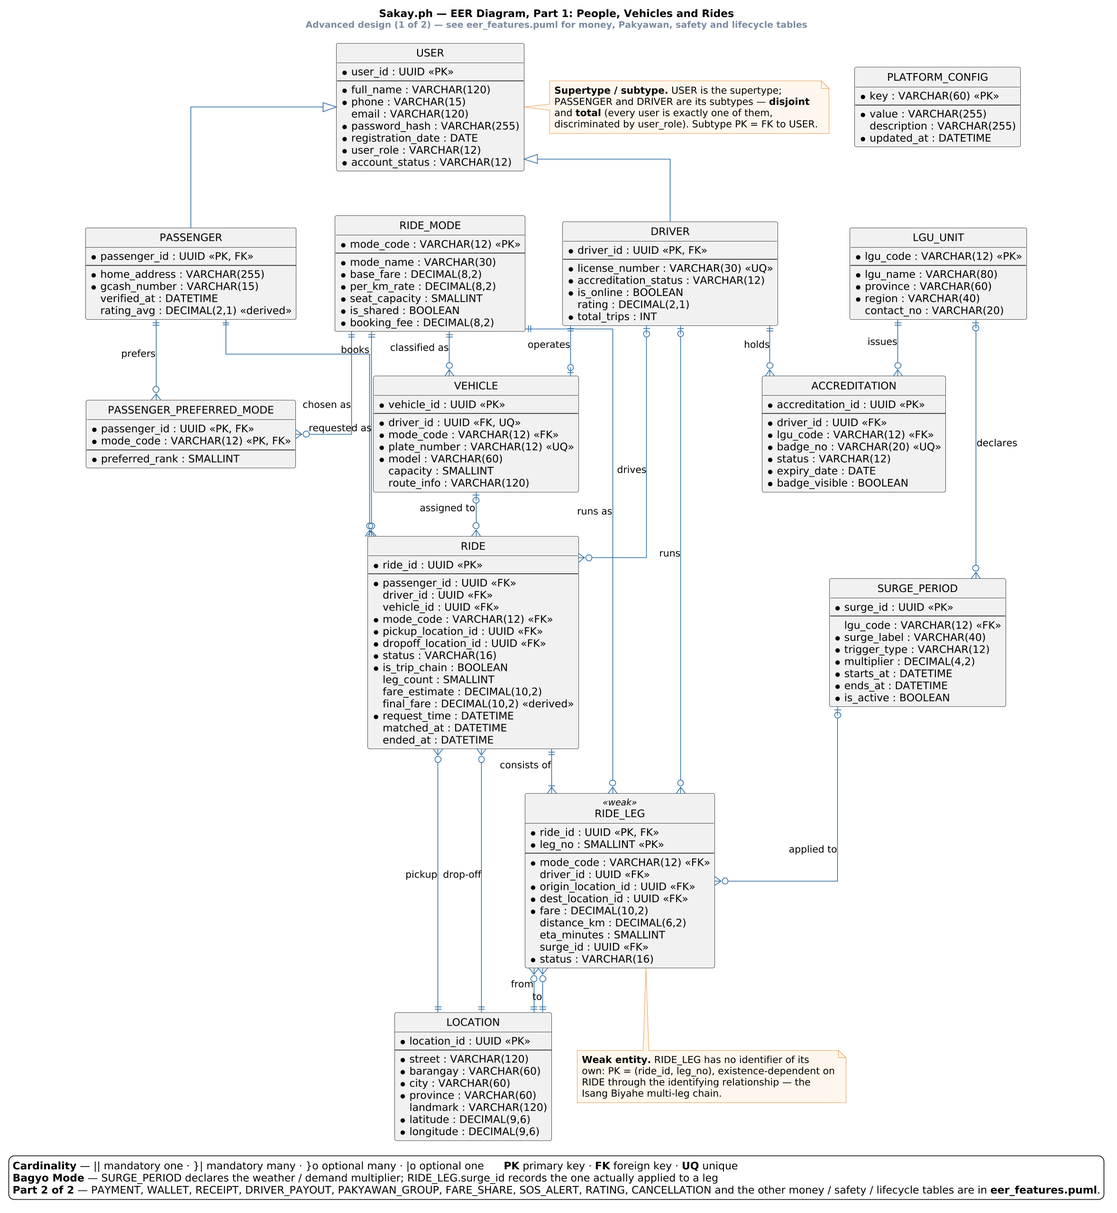
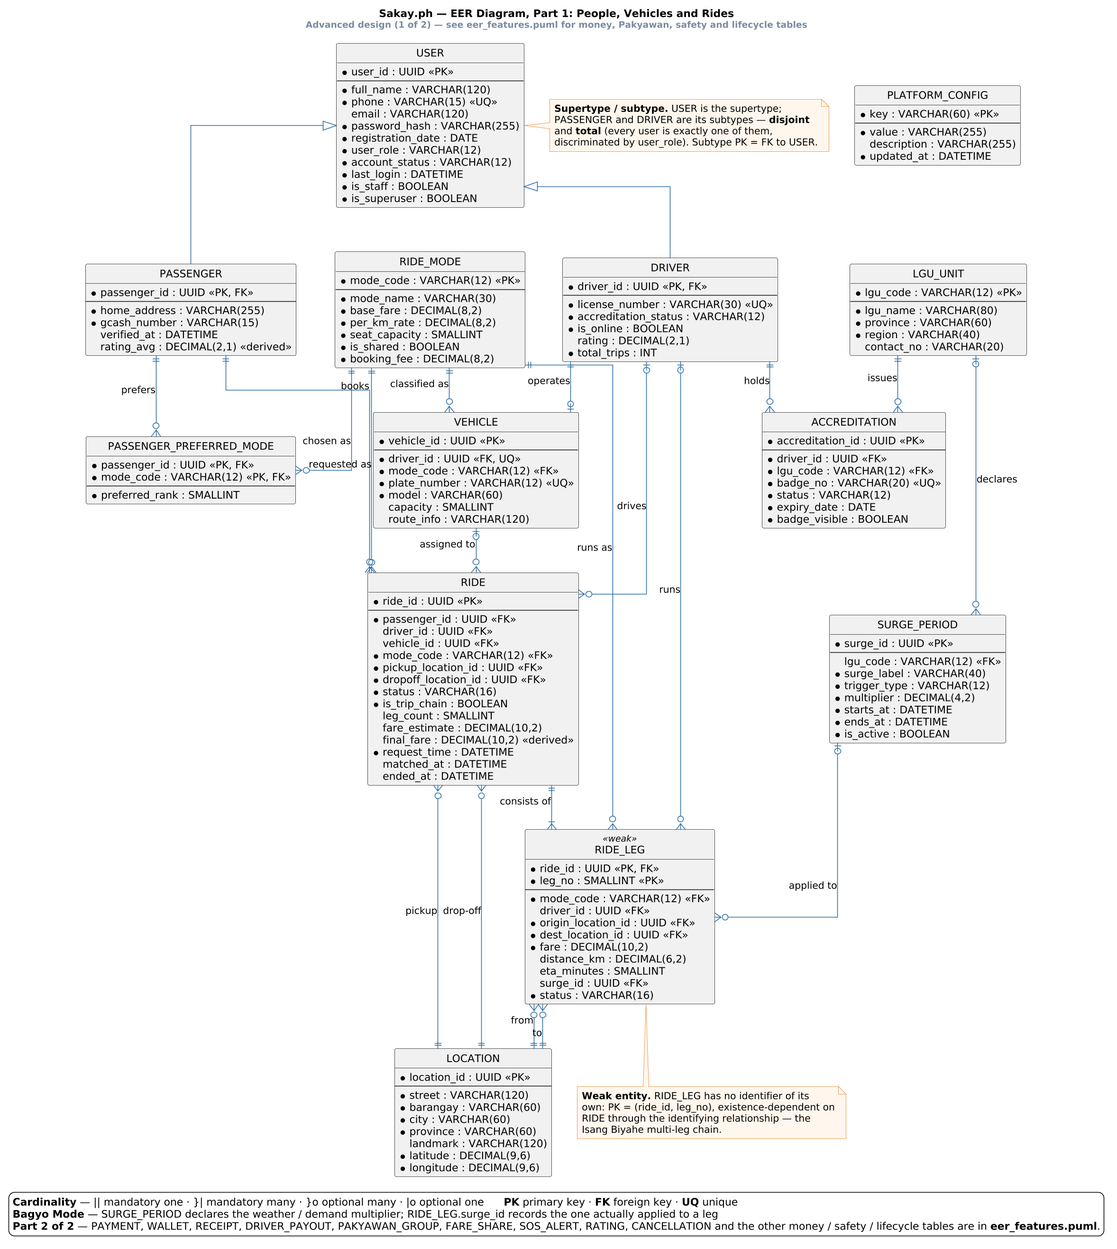
docs(db): record D-66..D-69 — USER auth columns, phone UNIQUE

diff --git a/steps/phase-2-database/03-models-accounts.md b/steps/phase-2-database/03-models-accounts.md
@@ -28,13 +28,12 @@ procedure from `CONTRIBUTING.md`:
    `last_login DATETIME NULL`, `is_staff BOOLEAN NOT NULL DEFAULT 0`,
    `is_superuser BOOLEAN NOT NULL DEFAULT 0`
 2. Add a `UNIQUE` mark to `phone` in the same table
-3. Append **D-65/D-66/D-67** entries to `database/consistency_report.md` — one each
-   for the three added columns, since each is a separate change to the listing.
-   **Check the next free number before you write it.** D-62 is A-13 (Day 5), D-63 is
-   the `char(32)` UUID decision (Day 5), and D-64 is the booking fee's value
-   (14 Nov — see §3.12), so D-65 is the next free slot. If your report has grown
-   further than that, continue from whatever is actually next — the rule is one
-   number per change, never reuse one.
+3. Append entries to `database/consistency_report.md` — one per column, since each
+   is a separate change to the listing: **D-66** `last_login`, **D-67** `is_staff`,
+   **D-68** `is_superuser`, **D-69** `phone` UNIQUE. `D-65` is taken: on 19 Nov it
+   was recorded for the PK column convention (field attribute `id`, column
+   `<entity>_id` via `db_column`, §3.13). **Check the next free number before you
+   write it — read the last entry of the report — one number per change, never reuse one.**
 4. Update USER in **both** EER sources — `database/diagrams/eer_core.puml` **and**
    `database/diagrams/eer_development.puml`: add the three columns and mark `phone`
    with `<<UQ>>` — then re-render both PNGs (recipe in `CONTRIBUTING.md`). USER appears
@@ -230,7 +229,7 @@ class User(AbstractBaseUser, PermissionsMixin):
     carries a UNIQUE constraint — see the design-change note for this step.
     """
 
-    id = models.UUIDField(primary_key=True, default=uuid.uuid4, editable=False)
+    id = models.UUIDField(primary_key=True, default=uuid.uuid4, editable=False, db_column="user_id")
 
     full_name = models.CharField(max_length=120)
     phone = models.CharField(
@@ -433,7 +432,7 @@ class LGUUnit(models.Model):
     lgu_name = models.CharField(max_length=80)
     province = models.CharField(max_length=60)
     region = models.CharField(max_length=40)
-    contact_no = models.CharField(max_length=20, blank=True)
+    contact_no = models.CharField(max_length=20, null=True, blank=True)
 
     class Meta:
         db_table = "LGU_UNIT"
@@ -452,7 +451,7 @@ class Vehicle(models.Model):
     and a driver has at most one vehicle (1 : 0..1 in the schema).
     """
 
-    id = models.UUIDField(primary_key=True, default=uuid.uuid4, editable=False)
+    id = models.UUIDField(primary_key=True, default=uuid.uuid4, editable=False, db_column="vehicle_id")
     driver = models.OneToOneField(
         Driver, on_delete=models.CASCADE, related_name="vehicle", db_column="driver_id"
     )
@@ -466,7 +465,7 @@ class Vehicle(models.Model):
     plate_number = models.CharField(max_length=12, unique=True)
     model = models.CharField(max_length=60)
     capacity = models.SmallIntegerField(null=True, blank=True)
-    route_info = models.CharField(max_length=120, blank=True)
+    route_info = models.CharField(max_length=120, null=True, blank=True)
 
     class Meta:
         db_table = "VEHICLE"
@@ -484,7 +483,7 @@ class Accreditation(models.Model):
     and a driver working across two cities holds two.
     """
 
-    id = models.UUIDField(primary_key=True, default=uuid.uuid4, editable=False)
+    id = models.UUIDField(primary_key=True, default=uuid.uuid4, editable=False, db_column="accreditation_id")
     driver = models.ForeignKey(
         Driver,
         on_delete=models.CASCADE,
@@ -574,10 +573,21 @@ If `admin`, `auth` and `contenttypes` are all unapplied, you are fine.
 
 ### 6. Migrate and inspect (~30 min)
 
+The stack must be up first — a `docker compose down -v` (Step 09's grant procedure, or
+recovering from an early `migrate`) leaves the database unreachable until the containers
+are back and MySQL has finished initialising:
+
+```powershell
+docker compose up -d
+# Bare `-p` prompts for the password — `-p sakayph` with a space would make mysqladmin
+# read "sakayph" as a command to run after the ping.
+docker compose exec mysql mysqladmin ping -u sakayph -p   # → "mysqld is alive"
+```
+
 ```powershell
 Set-Location backend
 ..\.venv\Scripts\Activate.ps1
-python manage.py makemigrations rides accounts
+python manage.py makemigrations core rides accounts
 python manage.py migrate
 ```
 
@@ -598,11 +608,14 @@ ACCREDITATION
 DRIVER
 LGU_UNIT
 PASSENGER
+PLATFORM_CONFIG
 USER
 VEHICLE
 ```
 
-Plus Django's own `auth_*`, `django_*` tables.
+Plus Django's own `auth_*`, `django_*` tables, and — because Option A gives USER the auth
+M2M relations — `USER_groups` and `USER_user_permissions`. If those two are missing,
+`AUTH_USER_MODEL` is not pointing at `accounts.User`.
 
 Confirm the inheritance is what the schema describes — `PASSENGER.passenger_id` must
 be a primary key that is also a foreign key:
@@ -612,7 +625,7 @@ $pw = (Select-String -Path ..\.env -Pattern '^MYSQL_PASSWORD=').Line.Split('=', 
 docker compose exec mysql mysql -u sakayph "-p$pw" sakayph -e "SHOW CREATE TABLE PASSENGER\G"
 ```
 
-Look for `PRIMARY KEY (passenger_id)` and a `FOREIGN KEY (passenger_id) REFERENCES USER (id)`.
+Look for `PRIMARY KEY (passenger_id)` and a `FOREIGN KEY (passenger_id) REFERENCES USER (user_id)`.
 
 ### 7. Prove login works (~20 min)
 
@@ -620,7 +633,9 @@ Look for `PRIMARY KEY (passenger_id)` and a `FOREIGN KEY (passenger_id) REFERENC
 python manage.py createsuperuser
 ```
 
-It prompts for **Phone** and **Full name** (not username — that is the point). Then:
+It prompts for **Phone** and **Full name** (not username — that is the point). The
+password validators run here; a failing password can be force-created with `y` at the
+bypass prompt — fine for a local admin, never for a seeded demo account. Then:
 
 ```powershell
 python manage.py shell
@@ -661,8 +676,22 @@ exit()
 
 ```powershell
 Set-Location ..
-git add database/ backend/apps/accounts/ backend/apps/rides/ backend/config/
-git commit -m "feat(accounts): add USER, PASSENGER, DRIVER, VEHICLE, LGU_UNIT, ACCREDITATION"
+# 1. Design artefacts first (artefact-before-code discipline). docker/ carries the
+#    mysql-init grant file and compose mount that Step 09's test database needs:
+git add database/ steps/ docker/
+git commit -m @'
+docs(db): record D-66..D-69 — USER auth columns, phone UNIQUE
+
+Co-Authored-By: Claude Code <noreply@anthropic.com>
+'@
+
+# 2. Then the code:
+git add backend/
+git commit -m @'
+feat(accounts): add USER, PASSENGER, DRIVER, VEHICLE, LGU_UNIT, ACCREDITATION
+
+Co-Authored-By: Claude Code <noreply@anthropic.com>
+'@
 git push
 ```
 
@@ -687,7 +716,7 @@ docker compose exec mysql mysql -u sakayph "-p$pw" sakayph -e "SHOW TABLES;"
 - [ ] Setting `account_status=SUSPENDED` makes `is_active` False and blocks login
 - [ ] `SHOW CREATE TABLE PASSENGER` shows PK and FK on `passenger_id`
 - [ ] `phone` has a UNIQUE index
-- [ ] All six tables exist, plus `RIDE_MODE` from section 3
+- [ ] All six account tables exist, plus `RIDE_MODE` (section 3) and `PLATFORM_CONFIG` (table 27)
 - [ ] `SHOW CREATE TABLE RIDE_MODE` shows `booking_fee DECIMAL(8,2) NOT NULL DEFAULT 0.00`
       — the **D-62** column, and the schema listing was updated to carry it *before*
       you wrote it
@@ -700,9 +729,9 @@ docker compose exec mysql mysql -u sakayph "-p$pw" sakayph -e "SHOW TABLES;"
 ```markdown
 **Step 2.03 — accounts models — DONE**
 
-- Recorded design change: USER gains last_login, is_staff, is_superuser; phone
-  becomes UNIQUE (D-65/66/67 in consistency_report.md, schema_listing.md and both
-  EER sources updated, both PNGs re-rendered)
+- Recorded design change: USER gains last_login (D-66), is_staff (D-67),
+  is_superuser (D-68), phone UNIQUE (D-69) in consistency_report.md; schema_listing.md
+  and both EER sources updated, both PNGs re-rendered. PK column convention is D-65.
 - Chose AUTH_USER_MODEL = accounts.User (option A) over a dual identity system
 - USER uses phone as USERNAME_FIELD; is_active derived from account_status
 - PASSENGER and DRIVER use OneToOneField(primary_key=True) for class-table inheritance
@@ -718,6 +747,8 @@ docker compose exec mysql mysql -u sakayph "-p$pw" sakayph -e "SHOW TABLES;"
 
 | Symptom | Cause | Fix |
 |---|---|---|
+| `ERROR 1045 Access denied for 'sakayph'@'localhost'` | The password does not match `.env` (it was regenerated in Step 1.06), or the socket connection does not match the image's `'sakayph'@'%'` user | Use the `.env` password, `"-p$pw"` as in §6, or add `-h 127.0.0.1` to connect over TCP |
+| `mysqladmin: Unknown command: 'sakayph'` | `-p sakayph` with a space — mysqladmin read `sakayph` as the command to run after the ping | Attach the password (`"-p$pw"`) or use bare `-p` and type it at the prompt |
 | `AUTH_USER_MODEL refers to model 'accounts.User' that has not been installed` | `apps.accounts` not in `INSTALLED_APPS`, or `apps.py` name wrong | Check both; `name` must be `"apps.accounts"` |
 | `createsuperuser` asks for a username | `AUTH_USER_MODEL` not set, so Django used `auth.User` | Set it, then `docker compose down -v` and re-migrate |
 | `Cannot change AUTH_USER_MODEL` / migration conflicts | You migrated with the default user model first | `docker compose down -v`, delete `apps/*/migrations/0*.py`, migrate fresh |

diff --git a/steps/phase-2-database/00-overview.md b/steps/phase-2-database/00-overview.md
@@ -122,8 +122,12 @@ Phase 2 steps must not reissue them:
 | **D-62** | A-13 — booking fee, commission rule, chain discount dropped, `mock3` arithmetic corrected | Day 5, [Step 0.01](../phase-0-design-completion/01-complete-technology-stack.md) |
 | **D-63** | UUIDs stored as `char(32)` on MySQL rather than a native `UUID` column | Day 5, [Step 0.03](../phase-0-design-completion/03-design-freeze-check.md) |
 | **D-64** | `RIDE_MODE.booking_fee` seeded at ₱3.00 flat on every mode, charged once per ride | 14 Nov, recorded in [Step 08](08-migrations-seed-and-admin.md)'s seed data |
-| **D-65/66/67** | `USER` gains `last_login`, `is_staff`, `is_superuser`; `phone` becomes `UNIQUE` | Phase 2, [Step 03](03-models-accounts.md) |
-| **D-68** | The four composite primary keys become surrogate `id` + `UniqueConstraint` | Phase 2, [Step 04](04-models-rides-core.md) |
+| **D-65** | Surrogate PK columns keep the schema's names (`user_id`, `vehicle_id`, …): field attribute `id`, column `<entity>_id` via `db_column` | 19 Nov pre-flight, amends [Step 01](01-apps-and-shared-conventions.md) §4 |
+| **D-66** | USER gains `last_login` | Phase 2, [Step 03](03-models-accounts.md) |
+| **D-67** | USER gains `is_staff` | Phase 2, [Step 03](03-models-accounts.md) |
+| **D-68** | USER gains `is_superuser` | Phase 2, [Step 03](03-models-accounts.md) |
+| **D-69** | `phone` becomes `UNIQUE` | Phase 2, [Step 03](03-models-accounts.md) |
+| **D-70** | The four composite primary keys become surrogate `id` + `UniqueConstraint` | Phase 2, [Step 04](04-models-rides-core.md) |
 
 **Before writing any entry, open `consistency_report.md` and read the last number in
 it.** The table above is what the step files expect; your report is what actually
@@ -164,8 +168,8 @@ exception afterwards. They exist so that Step 04 looks like Step 06.
 
 | Convention | Rule | Why |
 |---|---|---|
-| **Primary key** | `UUIDField(primary_key=True, default=uuid4, editable=False)` named `<entity>_id` | Matches the schema exactly; UUIDs are not guessable, which matters for a ride-tracking app |
-| **UUID storage** | `CharField(max_length=32)` via a custom field, or MySQL `CHAR(32)` | See "If it goes wrong" — the default `CHAR(32)` choice has a performance cost that is irrelevant here but worth knowing |
+| **Primary key** | `UUIDField(primary_key=True, default=uuid.uuid4, editable=False, db_column="<entity>_id")` — field attribute `id`, physical column `<entity>_id` | Matches the schema exactly; UUIDs are not guessable, which matters for a ride-tracking app (D-65) |
+| **UUID storage** | Django's default `UUIDField` → MySQL `CHAR(32)` | D-63; no custom field — one was considered and rejected (Step 0.03) |
 | **Timestamps** | `DateTimeField`; `auto_now_add` only where the schema says *(added)* | `request_time` is a business timestamp, not an audit one |
 | **Money** | `DecimalField(max_digits=..., decimal_places=2)` | **Never `FloatField`.** A fare that rounds wrong is a bug you cannot explain |
 | **Coordinates** | `DecimalField(max_digits=9, decimal_places=6)` | Matches the schema; ~11 cm precision, more than enough |

diff --git a/steps/PROGRESS.md b/steps/PROGRESS.md
@@ -445,6 +445,7 @@ way" into "I can defend why".
 | D-16 | 10 Nov | **English UI, Filipino feature names** | Add `vue-i18n` | The mockups already do this; translating 27 use cases earns no marks |
 | D-17 | 11 Nov | **A-13 pricing gap resolved:** booking fee → new `RIDE_MODE.booking_fee`; commission rate → new `PLATFORM_CONFIG` table (27th table); chain-leg discount → **dropped**; `mock3` arithmetic → **corrected to ₱51.00** | (a) Leave the gap undocumented and invent the rules in Phase 3; (b) hardcode the rates in `FareCalculator`; (c) drop the booking fee; (d) implement the chain discount via a new `RIDE.chain_discount` column | The mockups show all three behaviours, so the schema had to carry them or the shipped UI would promise prices the backend could not reproduce. Rates belong in data, not code, so a rate change is a row edit rather than a deploy — but the waiver stays in code, because that is a rule and only its number is configurable. The chain discount was dropped because **no rule anywhere justifies it**; implementing it would mean inventing a business rule and then defending the invention, and the one thing the design does say about chains is that a chain's fare is the sum of its legs. **Recorded as D-62 in `database/consistency_report.md` §3.10.** Implemented in Phase 2 — `schema_listing.md` and both EER sources gained table 27 and `RIDE_MODE.booking_fee` in **Step 02.01**; the `booking_fee` model column lands in **Step 02.03** |
 | D-18 | 14 Nov | **Booking fee is ₱3.00 flat on all six modes, charged once per ride** | (a) per-mode values; (b) ₱0 seed relying on the DDL default | ₱3.00 is the only artefact-traceable number — `mock3_payment.png`'s "Booking fee ₱3.00" line — and a flat per-booking fee is how Philippine platforms actually charge. On a ₱15 jeepney leg the 10% commission is ₱1.50, so the flat fee is the platform's meaningful take on the cheap modes where a percentage earns almost nothing. Once per ride, not per leg: a three-leg chain pays ₱3 in total, and `FareCalculator` reads it off `RIDE.mode_code` once at booking. **Recorded as D-64 in `database/consistency_report.md` §3.12** — seed lands in Step 02.08 |
+| D-19 | 19 Nov | **Integrate Django auth with the domain USER table (Option A):** `AUTH_USER_MODEL = "accounts.User"`, `phone` as `USERNAME_FIELD`, `is_active` derived from `account_status`; USER gains `last_login` (D-66), `is_staff` (D-67), `is_superuser` (D-68), and `phone` becomes UNIQUE (D-69) | (B) keep `auth.User` for the admin and `accounts.User` for the domain — two identity systems; (C) hand-rolled JWT with no Django auth | One identity system means `request.user` is the same object everywhere; a dual system is a bug factory and hand-rolled auth reimplements password hashing for nothing. The three new columns are auth infrastructure, not domain. **Recorded as D-66..D-69 in `database/consistency_report.md` §3.14.** |
 
 ---
 

diff --git a/steps/phase-2-database/01-apps-and-shared-conventions.md b/steps/phase-2-database/01-apps-and-shared-conventions.md
@@ -288,6 +288,9 @@ class UUIDModel(models.Model):
 
     Django stores UUIDField as CHAR(32) on MySQL, which matches the
     ``UUID`` type used throughout database/schema_listing.md.
+
+    Concrete models whose PK column must match the schema (per D-65) declare their
+    own `id` field with `db_column="<entity>_id"` instead of inheriting this one.
     """
 
     id = models.UUIDField(primary_key=True, default=uuid.uuid4, editable=False)
@@ -344,13 +347,13 @@ the column name is separate from the attribute name. Two options:
 
 | Option | Field | Column | Trade-off |
 |---|---|---|---|
-| **A (chosen)** | `id` | `id` | Idiomatic Django; `ride.id` reads naturally in Python |
-| B | `user_id` | `user_id` | Matches the schema document exactly; `user.user_id` is redundant |
+| **Chosen (19 Nov)** | `id` | `<entity>_id` via `db_column` | Python reads like Django, the database reads like the diagrams — recorded as D-65 |
+| A (rejected 19 Nov) | `id` | `id` | leaves `SHOW CREATE TABLE` saying `id` where the listing and both EER sources say `user_id` |
+| B (rejected) | `user_id` | `user_id` | attribute name is redundant |
 
-This plan uses **A** and sets `db_table` to the schema's table name, so the
-*database* still reads like the diagrams while the *Python* reads like Django. Note
-the choice in the decision log — it is the kind of small inconsistency an assessor
-may ask about.
+This plan uses the chosen hybrid and sets `db_table` to the schema's table name, so
+the *database* reads exactly like the diagrams while the *Python* reads like Django.
+The choice is recorded as D-65 in `database/consistency_report.md` §3.13.
 
 ### 5. Add `core` constants (~10 min)
 
@@ -498,8 +501,7 @@ python -c "from apps.core import enums; print(len([n for n in dir(enums) if not 
 - Fixed all five apps.py `name` attributes to the dotted path
 - Wrote all 13 domains as TextChoices in apps/core/enums.py
 - Added UUIDModel, TimeStampedModel, MoneyField, CoordinateField abstractions
-- Decision: PK attribute named `id` (Django idiom) while db_table keeps the
-  schema's UPPER_SNAKE name
+- Decision: PK field attribute `id`, physical column `<entity>_id` via `db_column` (D-65) — database reads like the diagrams; Python reads like Django
 - **D-62 (A-13):** PLATFORM_CONFIG added as table 27; schema_listing.md updated first
   (EER sources + PNG re-render added to this step on 14 Nov, after the first run missed them)
 - **Commit:** <sha>

diff --git a/steps/phase-2-database/06-models-payments.md b/steps/phase-2-database/06-models-payments.md
@@ -86,7 +86,7 @@ class Wallet(models.Model):
     cash-only passenger simply has no wallet row.
     """
 
-    id = models.UUIDField(primary_key=True, default=uuid.uuid4, editable=False)
+    id = models.UUIDField(primary_key=True, default=uuid.uuid4, editable=False, db_column="wallet_id")
 
     passenger = models.OneToOneField(
         "accounts.Passenger",
@@ -128,7 +128,7 @@ class Payment(models.Model):
     (PAYMENT -> WALLET is 0..1 : 0..*).
     """
 
-    id = models.UUIDField(primary_key=True, default=uuid.uuid4, editable=False)
+    id = models.UUIDField(primary_key=True, default=uuid.uuid4, editable=False, db_column="payment_id")
 
     ride = models.OneToOneField(
         "rides.Ride", on_delete=models.PROTECT, related_name="payment", db_column="ride_id"
@@ -311,7 +311,7 @@ class WalletTxn(models.Model):
     passenger-wallet transaction and live in DRIVER_PAYOUT instead.
     """
 
-    id = models.UUIDField(primary_key=True, default=uuid.uuid4, editable=False)
+    id = models.UUIDField(primary_key=True, default=uuid.uuid4, editable=False, db_column="txn_id")
 
     wallet = models.ForeignKey(
         Wallet, on_delete=models.PROTECT, related_name="transactions", db_column="wallet_id"
@@ -366,7 +366,7 @@ class DriverPayout(models.Model):
     Cannot be a WALLET_TXN row, because WALLET is passenger-scoped.
     """
 
-    id = models.UUIDField(primary_key=True, default=uuid.uuid4, editable=False)
+    id = models.UUIDField(primary_key=True, default=uuid.uuid4, editable=False, db_column="payout_id")
 
     driver = models.ForeignKey(
         "accounts.Driver",

diff --git a/steps/phase-2-database/05-models-rides-features.md b/steps/phase-2-database/05-models-rides-features.md
@@ -61,7 +61,7 @@ class SurgePeriod(models.Model):
     fare stays explainable after the window closes.
     """
 
-    id = models.UUIDField(primary_key=True, default=uuid.uuid4, editable=False)
+    id = models.UUIDField(primary_key=True, default=uuid.uuid4, editable=False, db_column="surge_id")
 
     lgu = models.ForeignKey(
         "accounts.LGUUnit",
@@ -142,7 +142,7 @@ class PakyawanGroup(models.Model):
     the schema. A solo ride simply has no group.
     """
 
-    id = models.UUIDField(primary_key=True, default=uuid.uuid4, editable=False)
+    id = models.UUIDField(primary_key=True, default=uuid.uuid4, editable=False, db_column="group_id")
 
     ride = models.OneToOneField(
         Ride, on_delete=models.CASCADE, related_name="pakyawan_group", db_column="ride_id"
@@ -299,7 +299,7 @@ class Cancellation(models.Model):
     may since have changed.
     """
 
-    id = models.UUIDField(primary_key=True, default=uuid.uuid4, editable=False)
+    id = models.UUIDField(primary_key=True, default=uuid.uuid4, editable=False, db_column="cancel_id")
 
     ride = models.OneToOneField(
         Ride, on_delete=models.CASCADE, related_name="cancellation", db_column="ride_id"
@@ -342,7 +342,7 @@ class Rating(models.Model):
     ``fields.E304``.
     """
 
-    id = models.UUIDField(primary_key=True, default=uuid.uuid4, editable=False)
+    id = models.UUIDField(primary_key=True, default=uuid.uuid4, editable=False, db_column="rating_id")
 
     ride = models.ForeignKey(
         Ride, on_delete=models.CASCADE, related_name="ratings", db_column="ride_id"

diff --git a/database/schema_listing.md b/database/schema_listing.md
@@ -47,12 +47,15 @@ Supertype for every person on the platform — passengers, drivers and admins.
 |---|---|---|---|---|
 | user_id | UUID | PK | — | `User.userId` |
 | full_name | VARCHAR(120) | NOT NULL | — | `User.fullName` |
-| phone | VARCHAR(15) | NOT NULL | — | `User.phone` |
+| phone | VARCHAR(15), UNIQUE | NOT NULL | — | `User.phone` |
 | email | VARCHAR(120) | NULL | — | `User.email` |
 | password_hash | VARCHAR(255) | NOT NULL | — | `User.passwordHash` |
 | registration_date | DATE | NOT NULL | — | `User.registrationDate` |
 | user_role | VARCHAR(12) | NOT NULL | domain `UserRole` | *(added — specialization discriminator)* |
 | account_status | VARCHAR(12) | NOT NULL | domain `AccountStatus` | *(added)* |
+| last_login | DATETIME | NULL |  |  |
+| is_staff | BOOLEAN | NOT NULL, DEFAULT 0 |  |  |
+| is_superuser | BOOLEAN | NOT NULL, DEFAULT 0 |  |  |
 
 ## 2. PASSENGER — subtype of USER
 

diff --git a/steps/phase-2-database/07-models-safety.md b/steps/phase-2-database/07-models-safety.md
@@ -56,7 +56,7 @@ class TrustedContact(models.Model):
     as a multivalued attribute. A passenger has 0..* of these.
     """
 
-    id = models.UUIDField(primary_key=True, default=uuid.uuid4, editable=False)
+    id = models.UUIDField(primary_key=True, default=uuid.uuid4, editable=False, db_column="contact_id")
 
     passenger = models.ForeignKey(
         "accounts.Passenger",
@@ -97,7 +97,7 @@ class SOSAlert(models.Model):
     can raise one; the schema says so and the use-case diagram agrees.
     """
 
-    id = models.UUIDField(primary_key=True, default=uuid.uuid4, editable=False)
+    id = models.UUIDField(primary_key=True, default=uuid.uuid4, editable=False, db_column="alert_id")
 
     ride = models.OneToOneField(
         "rides.Ride", on_delete=models.PROTECT, related_name="sos_alert", db_column="ride_id"

diff --git a/steps/phase-2-database/04-models-rides-core.md b/steps/phase-2-database/04-models-rides-core.md
@@ -79,7 +79,7 @@ class Location(models.Model):
     "rides from Barangay Poblacion" a query rather than a string match.
     """
 
-    id = models.UUIDField(primary_key=True, default=uuid.uuid4, editable=False)
+    id = models.UUIDField(primary_key=True, default=uuid.uuid4, editable=False, db_column="location_id")
 
     street = models.CharField(max_length=120)
     barangay = models.CharField(max_length=60)
@@ -122,7 +122,7 @@ class Ride(models.Model):
     schema_listing.md records why each is kept.
     """
 
-    id = models.UUIDField(primary_key=True, default=uuid.uuid4, editable=False)
+    id = models.UUIDField(primary_key=True, default=uuid.uuid4, editable=False, db_column="ride_id")
 
     passenger = models.ForeignKey(
         "accounts.Passenger",

diff --git a/steps/phase-2-database/09-model-tests.md b/steps/phase-2-database/09-model-tests.md
@@ -40,7 +40,10 @@ django.db.utils.OperationalError: (1044, "Access denied for user 'sakayph'@'%'
 to database 'test_sakayph'")
 ```
 
-Fix it properly, so a fresh clone works too. Create `docker/mysql-init/01-grants.sql`:
+Fix it properly, so a fresh clone works too. Create `docker/mysql-init/01-grants.sql`
+(if Step 03's commit already added it together with the mount below, skip creation —
+the grant only needs the data directory to be re-initialised once, so confirm with the
+`SHOW GRANTS` check at the end of this section before reaching for `down -v`):
 
 ```sql
 -- Runs once, on first initialisation of the MySQL data directory.

diff --git a/steps/README.md b/steps/README.md
@@ -136,3 +136,8 @@ fare calculator, the ride lifecycle, or the traceability matrix.
 **Three hard freezes:** feature freeze Day 22 (27 Nov), UI freeze Day 27 (2 Dec),
 documentation freeze Day 29 (4 Dec). They exist because the last week is always
 shorter than it looks.
+
+**Django Superuser**
+Phone: 09171234567
+Full name: AdminSakayph
+Password: Admin2627
